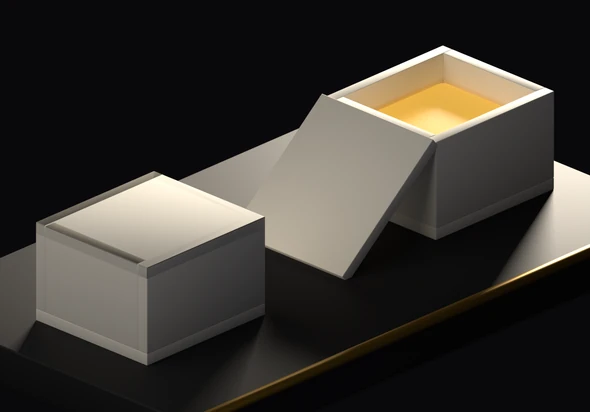
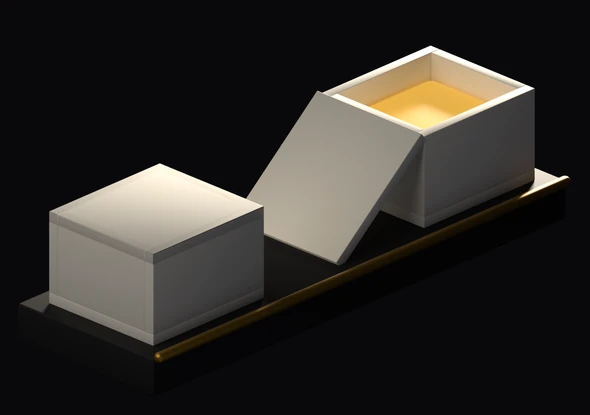
fix(whynow): les trois panneaux tiennent entiers — nouvelles formes de maitre et quatre ancres re-sorties
CE QUE LE CLIENT VOYAIT : `whynow-outils` et `whynow-caisses` rognes a droite, le
socle sortant du cadre, quand `whynow-bureau` tient entier dans la meme section.

LA CAUSE N'EST PAS DANS CE FICHIER, ET C'EST MESURE AVANT D'ETRE DIT. Le rognage
etait DANS LE RENDU : comptage de pixels sur les maitres, masque L > fond + 4 —
210 et 271 px non-fond sur la premiere colonne, 232 et 197 sur la derniere, 212 et
305 sur la derniere ligne, contre ZERO sur les quatre bords du panneau 1 ; et la
projection analytique du socle partage a ortho 2,55 donne 279,0 px hors cadre a
droite, qui retrouve le comptage a 1 px. Cote page, rien ne rogne : `object-fit`
vaut `fill` partout, aucun `aspect-ratio` impose, aucun ancetre a overflow qui
coupe, et le rapport affiche egale le rapport du fichier a 0,000 % sur les 24
combinaisons mesurees. Correction cote scenes : `nbhc-broll` a232bd5.

CE QUI CHANGE ICI, ET RIEN D'AUTRE :
  - les deux formes de maitre, parce que les scenes re-derivent leur cadre :
    whynow-outils   1480x925  -> 1480x845   (337 px de haut a 590 d'affichage)
    whynow-caisses  1480x1034 -> 1480x1041  (415 px)
  - les quatre ancres d'etiquette, re-sorties par les scenes dans leur
    `<nom>.ancres.json`. Deux d'entre elles changent pour une autre raison que le
    cadre : le socle retaille montre moins de dessus eclaire, donc le decalage
    vertical du panneau 2 — qui n'a pas de plaque et dont le seul critere est de
[…]

Changed region(s): [[0.0, 0.0874, 1.0, 1.0], [0.7017, 0.7282, 0.7932, 0.7864], [0.4881, 0.699, 0.5186, 0.7282]]

diff --git a/components/WhyNow.tsx b/components/WhyNow.tsx
@@ -182,12 +182,21 @@ const SEUIL_COTE_A_COTE = 1145;
  * script inchange.
  *
  * ET ELLES CORRIGENT MON ESTIMATION. J'avais propose y = 0,1968 et 0,5014 en
- * supposant la caisse haute de 0,35 a 0,52 ; elle fait 0,46, et la scene rend
+ * supposant la caisse haute de 0,35 a 0,52 ; elle fait 0,46, et la scene rendait
  * 0,1761 et 0,4807. C'est exactement pourquoi c'est la scene qui les sort.
  *
+ * CES DEUX VALEURS NE SONT PLUS CELLES QUI SONT LIVREES, et la trace en est gardee
+ * parce que le RAISONNEMENT tient et que seul le CADRE a change : le maitre du
+ * panneau 3 passe de 1 480 x 1 034 a 1 480 x 1 041 quand la scene cesse de rogner
+ * le socle, et la scene rend desormais 0,1710 et 0,4547. Voir le bloc juste avant
+ * `ETIQUETTES_LATERALES`.
+ *
  * Controles portes par le JSON : norme de l'axe vertical = 1,0 ; symetrie en x
- * (0,2552 + 0,7448 = 1,0000) ; ecart vertical 0,3045 contre 0,3030 x l'ecart en
- * x predit par la docstring de la scene.
+ * — elle N'EST PLUS EXACTE et c'est attendu : 0,2654 + 0,7245 = 0,9899, parce que
+ * la cible de la camera n'est plus sur l'axe de symetrie du sujet (elle est calee
+ * pour donner 44,4 px de marge de chaque cote, pas pour centrer les deux caisses).
+ * L'ecart vertical, lui, reste le controle utile : 0,2837 mesure contre
+ * 0,3030 x l'ecart en x, ecart de projection conforme a la docstring de la scene.
  */
 /**
  * Un jeu d'etiquettes par panneau lateral, dans l'ordre de LATERALES : panneau 2
@@ -205,10 +214,15 @@ const SEUIL_COTE_A_COTE = 1145;
  * La difference n'est pas un hasard : sur les caisses, le dessus du socle eclaire
  * occupe tout l'espace au-dessus des deux sujets, et la seule bande sombre
  * commune est y <= 0,125, trop loin des objets. Sur outils, il suffit de monter
- * l'ancre — de 0,30 unite au-dessus de l'amas, 0,46 au-dessus des deux dalles —
- * pour retomber sur du fond de page. C'est le plus PETIT decalage qui donne du
- * fond de page dans les deux cas : l'etiquette est aussi pres de son objet que la
- * lumiere le permet.
+ * l'ancre pour retomber sur du fond de page. C'est le plus PETIT decalage qui
+ * donne du fond de page : l'etiquette est aussi pres de son objet que la lumiere
+ * le permet.
+ *
+ * LES DEUX DECALAGES DU PANNEAU 2 ETAIENT 0,30 ET 0,46 ; ILS SONT MAINTENANT 0,34
+ * ET 0,26, RE-MESURES SUR LE MAITRE QUI NE ROGNE PLUS. Le socle retaille montre
+ * moins de dessus eclaire derriere les sujets, donc le fond de page descend d'un
+ * cote et l'ancien 0,46 devenait un ECRETAGE de l'autre. Le detail est dans le
+ * bloc juste avant `ETIQUETTES_LATERALES`.
  *
  * NOMMER LA GEOMETRIE SERVIE, ET NON CELLE QU'UN DOCUMENT AVAIT ANNONCEE. Ce bloc
  * disait « la plaque fendue », et deux autres passages de ce fichier disaient « la
@@ -227,14 +241,43 @@ const SEUIL_COTE_A_COTE = 1145;
  * vivre ailleurs que dans le composant qui l'affiche (regle 34), et l'inverse est
  * vrai aussi — corriger les messages ne corrige pas le commentaire.
  */
+/**
+ * ── LES QUATRE ANCRES ONT ETE RE-SORTIES PAR LES SCENES APRES LA CORRECTION DU
+ *    ROGNAGE, ET DEUX D'ENTRE ELLES ONT CHANGE POUR UNE AUTRE RAISON QUE LE CADRE.
+ *
+ * CE QUI A BOUGE, ET POURQUOI. Les deux maitres lateraux etaient ROGNES : le socle
+ * partage sortait du cadre a droite, a gauche et en bas (mesure : 210 et 271 px
+ * non-fond sur la premiere colonne, 232 et 197 sur la derniere, 212 et 305 sur la
+ * derniere ligne, contre ZERO sur les quatre bords du panneau 1). Les deux scenes
+ * retaillent maintenant le socle et re-derivent leur cadre — 1 480 x 845 et
+ * 1 480 x 1 041 au lieu de 925 et 1 034 — donc TOUTES les fractions changent.
+ *
+ * ET UNE ANCRE N'A PAS SEULEMENT CHANGE DE CADRE. Sur le panneau 2, qui n'a pas de
+ * plaque, le decalage vertical est le plus PETIT qui donne du fond de page ; il
+ * depend de la bande de dessus de socle eclairee, qui rapetisse quand le socle
+ * passe de 1,76 a 1,1854 de profondeur. Balayage refait sur le nouveau maitre, a
+ * 370 px d'affichage et dans les deux cas de lignes (une en `fr`, deux en `en`) :
+ *   AMAS   dz 0,30 -> 1,92:1 a une ligne  ->  porte a 0,34, ou les deux passent
+ *   FENTE  dz 0,46 -> passait, mais l'ancre tombait a 0,0646 et la boite sortait
+ *          du cadre par le HAUT de 28,8 px du maitre a une ligne, 88,2 px a deux
+ *          ->  ramene a 0,26, le plus petit qui donne 16,92:1 aux deux
+ * Reconduire les dz sans les re-mesurer aurait livre une etiquette ecretee.
+ *
+ * LE PANNEAU 3 GARDE SON dz DE 0,10, ET C'EST LA PLAQUE QUI LE PERMET : son
+ * contraste ne se lit pas contre le rendu mais contre la plaque a 0,78, donc son
+ * seul critere est de tenir dans le cadre — a 0,10 la boite a 35 px de marge en
+ * haut au pire cas a deux lignes. La plaque reste, et les 17,02:1 avec elle.
+ */
 const ETIQUETTES_LATERALES = [
   [
-    { cle: "panel2LabelOutils", x: 0.2866, y: 0.3507 },
-    { cle: "panel2LabelMetier", x: 0.6745, y: 0.1198 },
+    // rendus/outils.ancres.json — amas_etiquette (dz 0,34) et fente_etiquette (0,26)
+    { cle: "panel2LabelOutils", x: 0.3492, y: 0.2584 },
+    { cle: "panel2LabelMetier", x: 0.6793, y: 0.1705 },
   ],
   [
-    { cle: "panel3LabelVous", x: 0.2552, y: 0.4807 },
-    { cle: "panel3LabelAutres", x: 0.7448, y: 0.1761 },
+    // rendus/caisses.ancres.json — caisse_close_au_dessus / caisse_ouverte_au_dessus
+    { cle: "panel3LabelVous", x: 0.2654, y: 0.4547 },
+    { cle: "panel3LabelAutres", x: 0.7245, y: 0.1710 },
   ],
 ] as const;
 
@@ -339,7 +382,16 @@ const ETIQUETTE_BUREAU = { x: 0.29, y: 0.1965 } as const;
 const VOILE_ETIQUETTE = 0.78;
 
 const LATERALES = [
-  { fichier: "whynow-outils", largeur: 1480, hauteur: 925 },   // 369 px a 590
+  // ── LES DEUX MAITRES ONT CHANGE DE FORME PARCE QU'ILS ETAIENT ROGNES ──────────
+  // 1 480 x 925 et 1 480 x 1 034 cadraient le sujet en le COUPANT : le socle
+  // partage sortait a droite, a gauche et en bas. Cause mesuree DANS LE RENDU et
+  // non dans la page — les quatre WebP de chaque panneau ont le rapport de leur
+  // maitre a 3.10-4 pres, l'image est en `block w-full h-auto`, il n'y a ni
+  // `object-fit`, ni `aspect-ratio` impose, ni `overflow: hidden` sur un ancetre.
+  // Voir le bloc de tete de `nbhc-broll/rendu-3d/scene_outils.py`.
+  // Nouvelles formes, sorties des scenes : 845 et 1 041 px de haut, ZERO pixel de
+  // sujet sur les quatre bords, marge minimale 46 et 47 px du maitre.
+  { fichier: "whynow-outils", largeur: 1480, hauteur: 845 },   // 337 px a 590
   // SECONDE VERSION DU PANNEAU 3. La premiere montrait deux postes de travail et
   // elle RIMAIT avec le panneau 1 sur la page : on n'y lisait pas deux bureaux, on
   // lisait le bureau du panneau 1 deux fois. L'agrandissement a 590 px n'a pas
@@ -347,7 +399,7 @@ const LATERALES = [
   // meme temps que la separation des socles. Celle-ci n'emprunte aucun objet ni au
   // panneau 1 ni au panneau 2 : deux caisses, l'une close, l'autre ouverte avec de
   // l'or dedans.
-  { fichier: "whynow-caisses", largeur: 1480, hauteur: 1034 }, // 412 px a 590
+  { fichier: "whynow-caisses", largeur: 1480, hauteur: 1041 }, // 415 px a 590
 ] as const;
 const PALIERS_LATERAUX = [370, 590, 740, 1180] as const;
 
@@ -643,7 +695,11 @@ export default function WhyNow() {
               decoding="async"
               className="block w-full h-auto"
             />
-              {/* Les etiquettes ne portent QUE sur le panneau 3. Le conteneur,
+              {/* CE COMMENTAIRE DISAIT « les etiquettes ne portent QUE sur le
+                  panneau 3 », ET C'EST FAUX : `ETIQUETTES_LATERALES` porte DEUX
+                  etiquettes par panneau, donc quatre en tout, et la boucle ci-dessous
+                  les rend pour les deux. C'est la PLAQUE qui ne porte que sur le
+                  panneau 3 (`PLAQUE_LATERALE = [false, true]`). Le conteneur,
                   lui, enveloppe les deux : il reprend exactement les contraintes
                   de flex et la largeur que l'image portait, et l'image passe en
                   w-full — la boite est donc inchangee, et il n'y a pas deux
